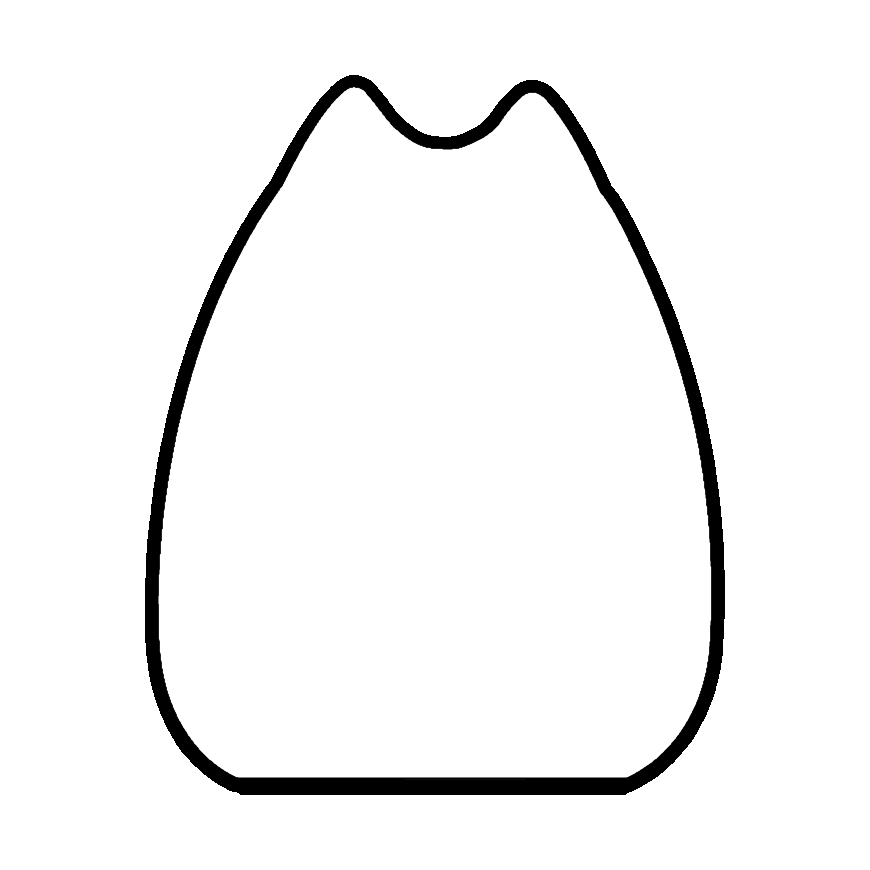
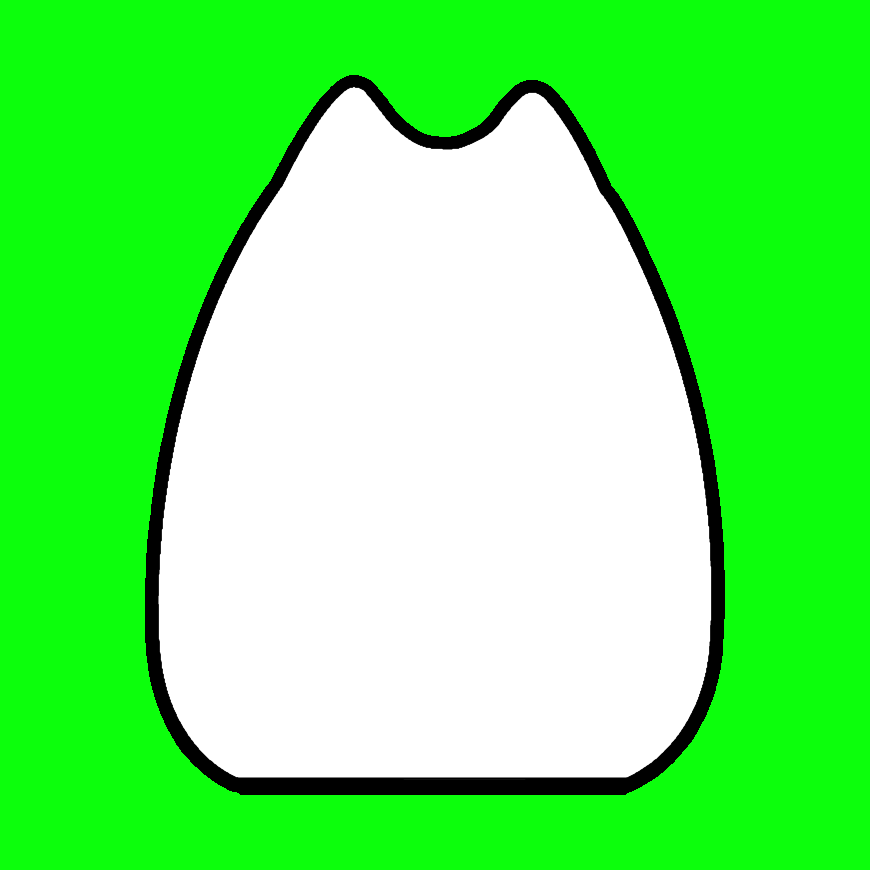
uh

diff --git a/cogs/commands/images.py b/cogs/commands/images.py
@@ -15,6 +15,22 @@ async def getImage(ctx, user: discord.User = None):
     return image
 
 
+# stole off the site with best SEO, https://note.nkmk.me/en/python-pillow-square-circle-thumbnail/
+def forceSquare(pil_img):
+    background_color = (0, 0, 0, 0)
+    width, height = pil_img.size
+    if width == height:
+        return pil_img
+    elif width > height:
+        result = Image.new(pil_img.mode, (width, width), background_color)
+        result.paste(pil_img, (0, (width - height) // 2))
+        return result
+    else:
+        result = Image.new(pil_img.mode, (height, height), background_color)
+        result.paste(pil_img, ((height - width) // 2, 0))
+        return result
+
+
 class Images(commands.Cog, name="Image Manipulation"):
     def __init__(self, bot):
         self.bot = bot
@@ -38,10 +54,22 @@ class Images(commands.Cog, name="Image Manipulation"):
         """catlamp here"""
         async with ctx.channel.typing():
             image = await getImage(ctx, user)
-            size = 870, 870  # the resolutions need to match
-            image.thumbnail(size)
+            # size = 870, 870  # the resolutions need to match
+            # image.thumbnail(size)
+            print(image.size)
+
             template = Image.open('catlamp-outlineonly.png', mode='r')
 
+            image = forceSquare(image)
+            print(image.size, template.size)
+            if image.size > template.size:
+                image.thumbnail(template.size)
+            else:
+                template.thumbnail(image.size)
+
+            image = image.convert(mode=template.mode)
+
+            print(image.size == template.size, template.mode == image.mode)
             outImg = Image.alpha_composite(image, template)  # processing here
 
             img = io.BytesIO()
